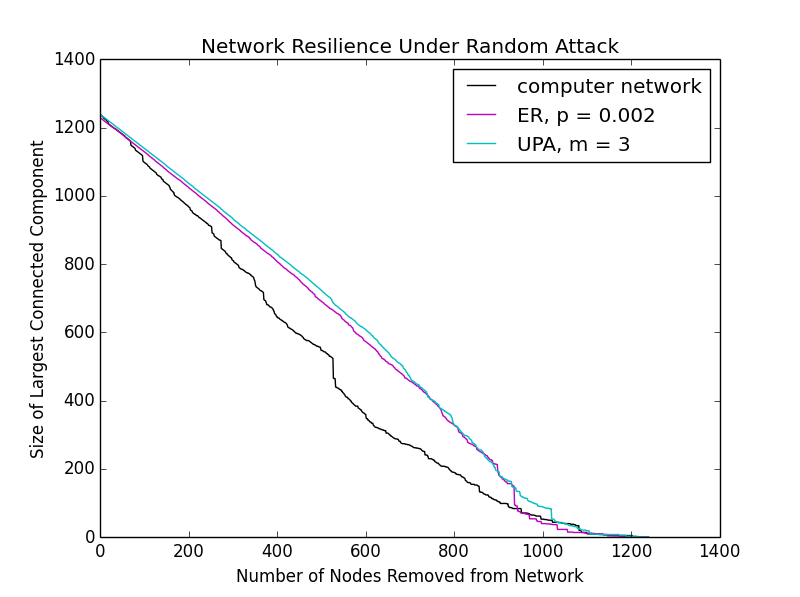
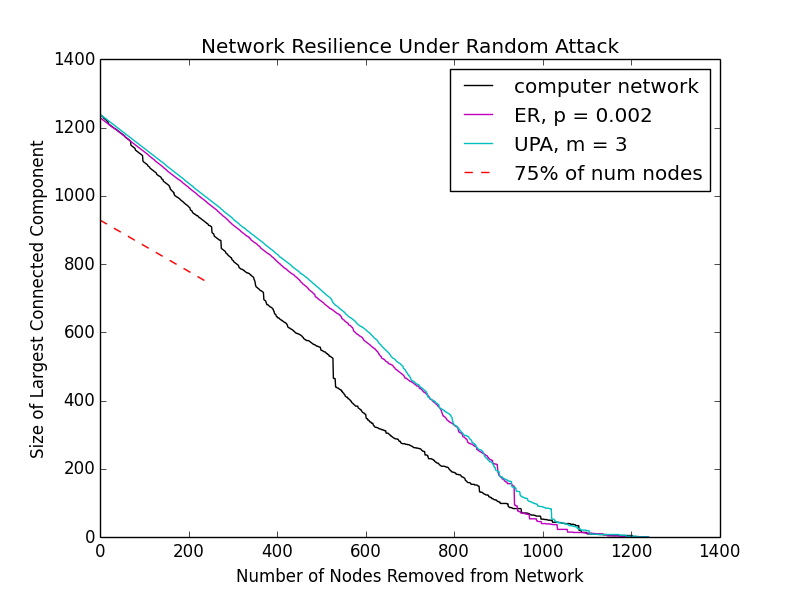
Question 2 answered, plot modified

Changed region(s): [[0.5625, 0.1206, 0.9062, 0.3317]]

diff --git a/Module 2/app2.py b/Module 2/app2.py
@@ -392,12 +392,16 @@ def question1(network, er_ugraph, upa_ugraph):
     order_upa = random_order(upa_ugraph)
     resilience_upa = compute_resilience(upa_ugraph, order_upa)
     
-    # plot
+    # plot arrays for analysis questions
     nodes = range(len(order_net) + 1)
+    first20pct = range(int(0.2 * nodes[-1]))
+    size75pct = [int(0.75 * (len(order_net) - node)) for node in first20pct]
     
+    # plot
     plt.plot(nodes, resilience_net, 'k-', label='computer network')
     plt.plot(nodes, resilience_er, 'm-', label='ER, p = 0.002')
     plt.plot(nodes, resilience_upa, 'c-', label='UPA, m = 3')
+    plt.plot(first20pct, size75pct, 'r--', label='75% of num nodes')
     plt.legend()
     plt.xlabel('Number of Nodes Removed from Network')
     plt.ylabel('Size of Largest Connected Component')
